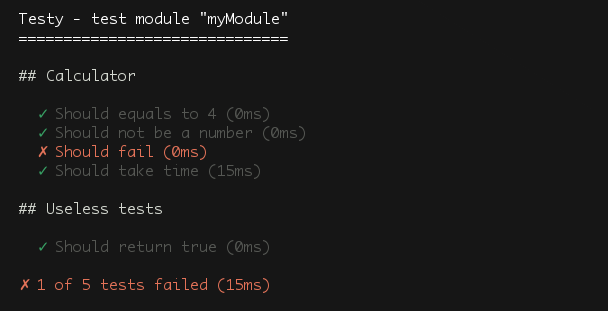
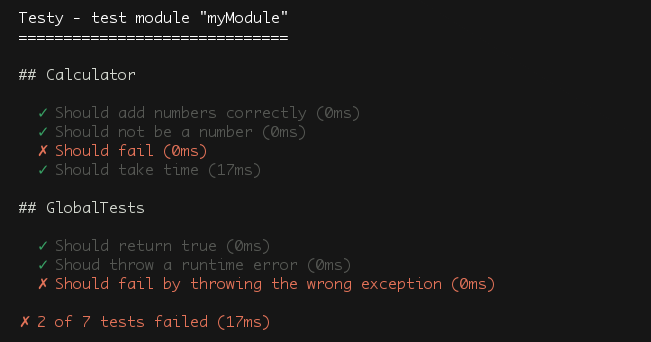
Update README

diff --git a/README.md b/README.md
@@ -10,6 +10,7 @@ Simple include testy.hpp into a c++ file and compile with your file to test.
 
 ```c++
 
+#include <stdexcept>
 #include "testy.hpp"
 #include "Calculator.hpp"
 
@@ -17,29 +18,35 @@ Suite("myModule", {
 
   describe("Calculator",
 
-    it("Should equals to 4",
-      return Calculator::getInstance().add(1, 2) == 3;
+    it("Should add numbers correctly",
+      test(Calculator::getInstance().add(1, 2) == 3)
+      test(Calculator::getInstance().add(-1, 2) == 1)
+      test(Calculator::getInstance().add(42, 42) == 84)
+      testRange(Calculator::getInstance().add(2, 2), 3, 5)
     ),
 
     it("Should not be a number",
-      return Calculator::getInstance().isNumber("test") == false;
+      test(Calculator::getInstance().isNumber("test") == false)
     ),
 
-    it("Should fail",
-      return false;
-    ),
+    it("Should fail", test(false)),
 
     it("Should take time",
       Calculator::getInstance().bigCalc();
-      return true;
     )
 
   )
 
-  describe("Useless tests",
+  describe("GlobalTests",
 
-    it("Should return true",
-      return true;
+    it("Should return true", ),
+
+    it("Shoud throw a runtime error",
+      testThrow(throw std::runtime_error("test");, std::runtime_error)
+    ),
+
+    it ("Should fail by throwing the wrong exception",
+      testThrow(throw std::invalid_argument("test");, std::out_of_range)
     )
 
   )
